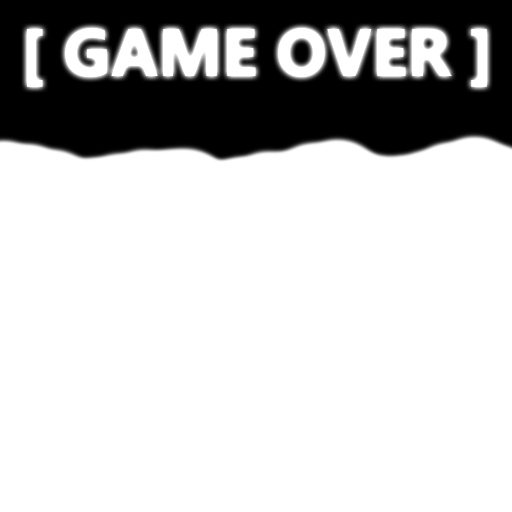
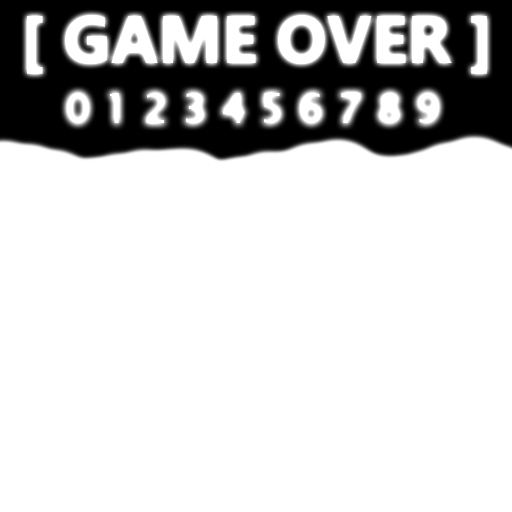
Added score

Changed region(s): [[0.0312, 0.0, 0.9688, 0.25], [0.0312, 0.125, 0.0938, 0.1875]]

diff --git a/Assets/Tank.cs b/Assets/Tank.cs
@@ -12,7 +12,11 @@ public class Tank : MonoBehaviour
     [HideInInspector]
     public List<Leak> leaks;
 
+    public Sprite[] numbers;
+    public SpriteRenderer[] slots;
+
     public float emptY;
+    private float score;
 
     void Start()
     {
@@ -40,6 +44,7 @@ public class Tank : MonoBehaviour
 	    logo.enabled = false;
 
 	    float dificulity = 0;
+	    score = 0;
 
         yield return new WaitForSeconds(Random.Range(4, 8f));
         while (!gamover.enabled)
@@ -75,20 +80,30 @@ public class Tank : MonoBehaviour
 	// Update is called once per frame
 	void Update ()
     {
-	    if (water.position.y < emptY && !gamover.enabled)
+	    if (water.position.y < emptY)
 	    {
-	        Debug.Log("GameOver");
-	        gamover.enabled = true;
-	        logo.enabled = true;
-	        foreach (var leak in leaks)
+	        if (!gamover.enabled)
 	        {
-                leak.Crack();
-	            leak.leaking = false;
+	            Debug.Log("GameOver");
+	            gamover.enabled = true;
+	            logo.enabled = true;
+	            foreach (var leak in leaks)
+	            {
+	                leak.Crack();
+	                leak.leaking = false;
+	            }
 	        }
 	    }
-	    else
+	    else if (!logo.enabled)
 	    {
             water.Translate(0, -leaks.Sum(l => l.Flow) * Time.deltaTime, 0);
+	        score += Time.deltaTime;
+
+	        int points = (int)(score*10);
+            slots[0].sprite = numbers[points % 10];
+            slots[1].sprite = numbers[(points / 10) % 10];
+            slots[2].sprite = numbers[(points / 100) % 10];
+            slots[3].sprite = numbers[(points / 1000) % 10];
         }
 	}
 }
